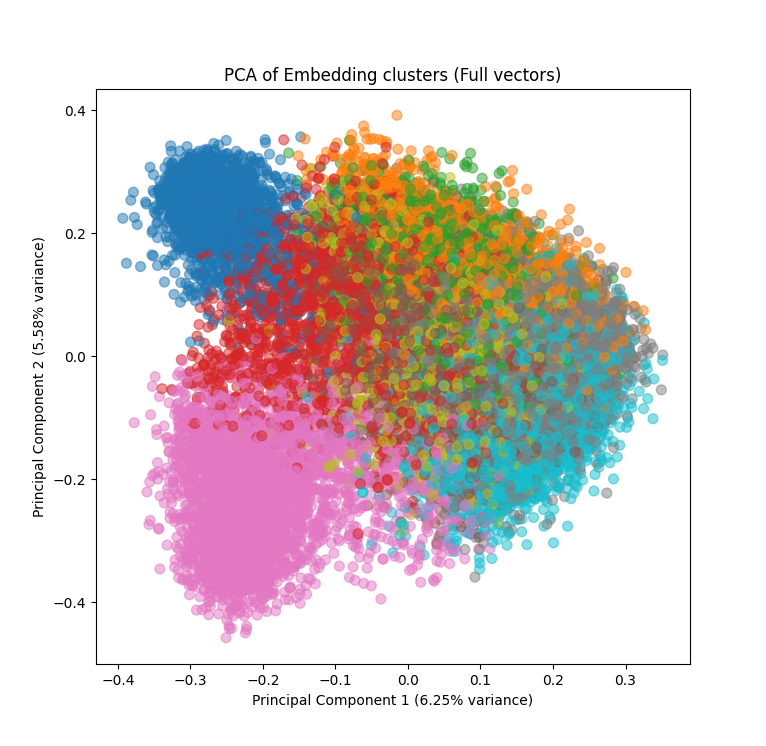
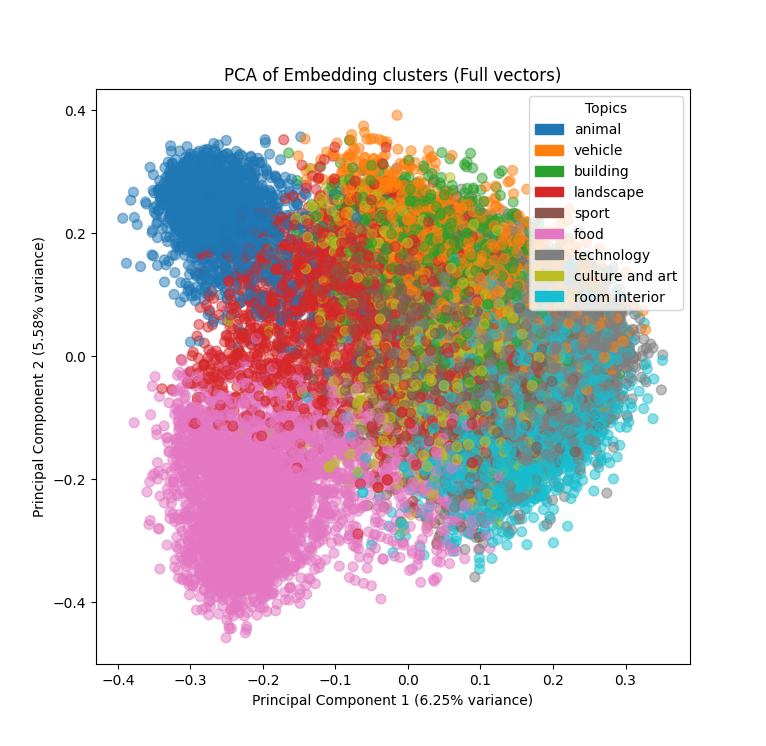
graphs, legend, colors

Changed region(s): [[0.6906, 0.1233, 0.8708, 0.4316]]

diff --git a/data_analysis/topic_clusters_multidimensional.py b/data_analysis/topic_clusters_multidimensional.py
@@ -4,10 +4,17 @@ import numpy as np
 from sklearn.decomposition import PCA
 from sklearn.preprocessing import normalize
 import matplotlib.pyplot as plt
+import matplotlib.patches as mpatches
 import subprocess
 import torch
 from transformers import CLIPProcessor, CLIPModel
 from sklearn.metrics.pairwise import cosine_similarity
+
+from termcolor import colored
+def rgba_to_terminal_color(rgba):
+    r, g, b, _ = rgba  # Ignore alpha channel
+    return f"\033[38;2;{int(r*255)};{int(g*255)};{int(b*255)}m"
+
 
 storage_dir = "../application/storage"
 post_embeddings = os.path.join(storage_dir, "p_embeddings.json")
@@ -76,11 +83,16 @@ projected_topics = pca.transform(np.array([new_topic_embeddings[topic] for topic
 explained_variance = pca.explained_variance_ratio_
 
 labels = []
+seen_labels = set()  # Track labels that have already been printed
 
 for emb in embeddings_matrix:
     similarities = cosine_similarity([emb], new_topic_embeddings_matrix).flatten()
     closest_topic_index = np.argmax(similarities)
+    
     labels.append(closest_topic_index)
+    
+    if closest_topic_index not in seen_labels:
+        seen_labels.add(closest_topic_index)
 
 labels = np.array(labels)
 
@@ -97,6 +109,19 @@ scatter = ax.scatter(
     label='Image Embeddings'
 )
 
+cmap = scatter.cmap
+norm = scatter.norm
+
+# Get unique labels
+unique_labels = np.unique(labels)
+
+# Generate legend patches
+legend_patches = [
+    mpatches.Patch(color=scatter.cmap(scatter.norm(label)), label=topic_keys[label])
+    for label in unique_labels
+]
+
+ax.legend(handles=legend_patches, title="Topics", loc="upper right", fontsize="medium")
 ax.set_title('PCA of Embedding clusters (Full vectors)')
 ax.set_xlabel(f'Principal Component 1 ({explained_variance[0]*100:.2f}% variance)')
 ax.set_ylabel(f'Principal Component 2 ({explained_variance[1]*100:.2f}% variance)')

diff --git a/data_analysis/topic_clusters.py b/data_analysis/topic_clusters.py
@@ -91,6 +91,7 @@ scatter = ax.scatter(
     projected_embeddings[:, 0],
     projected_embeddings[:, 1],
     c=labels,
+    cmap='tab10',
     s=50,
     alpha=0.6,
     label='Image Embeddings'
